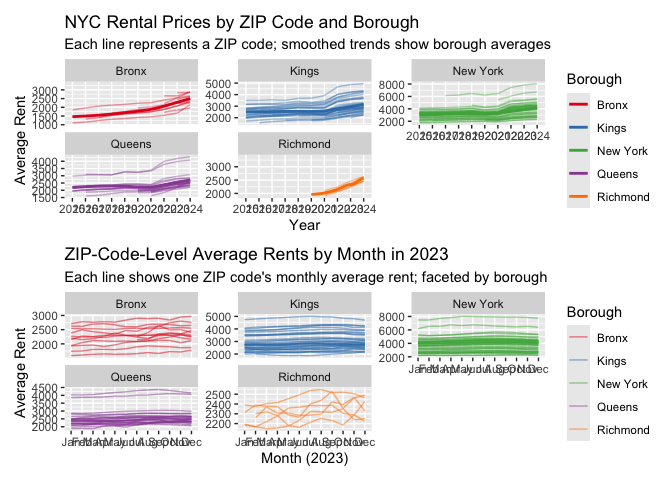
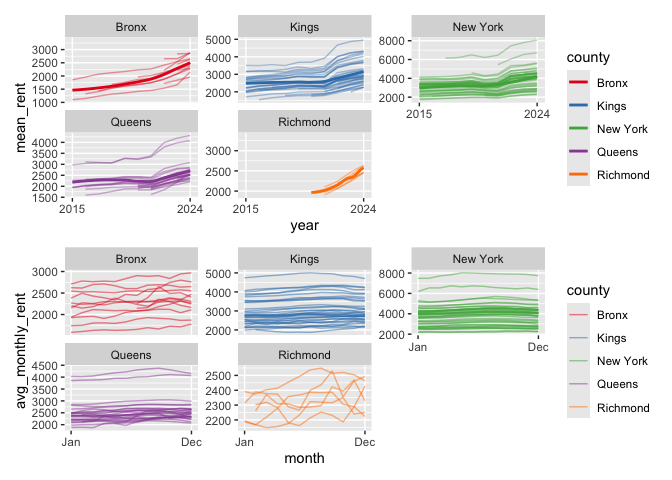
reformatting plots

diff --git a/hw_3.md b/hw_3.md
@@ -405,13 +405,7 @@ plot1 <- ggplot(zip_avg, aes(x = year, y = mean_rent, group = zip_code, color = 
   geom_smooth(aes(group = county, color = county), se = FALSE, size = 1.0) +
   facet_wrap(~county, scales = "free_y") +
   scale_color_brewer(palette = "Set1") +
-  labs(
-    title = "NYC Rental Prices by ZIP Code and Borough",
-    subtitle = "Each line represents a ZIP code; smoothed trends show borough averages",
-    x = "Year",
-    y = "Average Rent",
-    color = "Borough"
-  )
+  scale_x_discrete(breaks = c("2015", "2024"))
 ```
 
     ## Warning: Using `size` aesthetic for lines was deprecated in ggplot2 3.4.0.
@@ -419,6 +413,19 @@ plot1 <- ggplot(zip_avg, aes(x = year, y = mean_rent, group = zip_code, color = 
     ## This warning is displayed once every 8 hours.
     ## Call `lifecycle::last_lifecycle_warnings()` to see where this warning was
     ## generated.
+
+``` r
+  labs(
+    title = "NYC Rental Prices by ZIP Code and Borough",
+    subtitle = "Each line represents a ZIP code; smoothed trends show borough averages",
+    x = "Year",
+    y = "Average Rent",
+    color = "Borough"
+  ) +
+  theme(legend.position = "none")
+```
+
+    ## NULL
 
 From this plot showing NYC rental prices within ZIP codes for all
 available years, we can see that in almost all the boroughs, starting in
@@ -462,14 +469,17 @@ plot2 <- ggplot(rent_2023, aes(x = month, y = avg_monthly_rent,
   geom_line(alpha = 0.5) +
   facet_wrap(~ county, scales = "free_y") +
   scale_color_brewer(palette = "Set1") +
+  scale_x_discrete(breaks = c("Jan", "Dec"))
   labs(
     title = "ZIP-Code-Level Average Rents by Month in 2023",
-    subtitle = "Each line shows one ZIP code's monthly average rent; faceted by borough",
-    x = "Month (2023)",
+    x = "Month",
     y = "Average Rent",
     color = "Borough"
-  )
+  ) +
+  theme(legend.position = "none")
 ```
+
+    ## NULL
 
 From this plot showing average NYC rental prices each month in 2023
 across boroughs, we can see that Kings and New York county have more
@@ -498,3 +508,5 @@ combined_plot
     ## : There are other near singularities as well. 1
 
 ![](hw_3_files/figure-gfm/unnamed-chunk-15-1.png)<!-- -->
+
+## Problem 3
